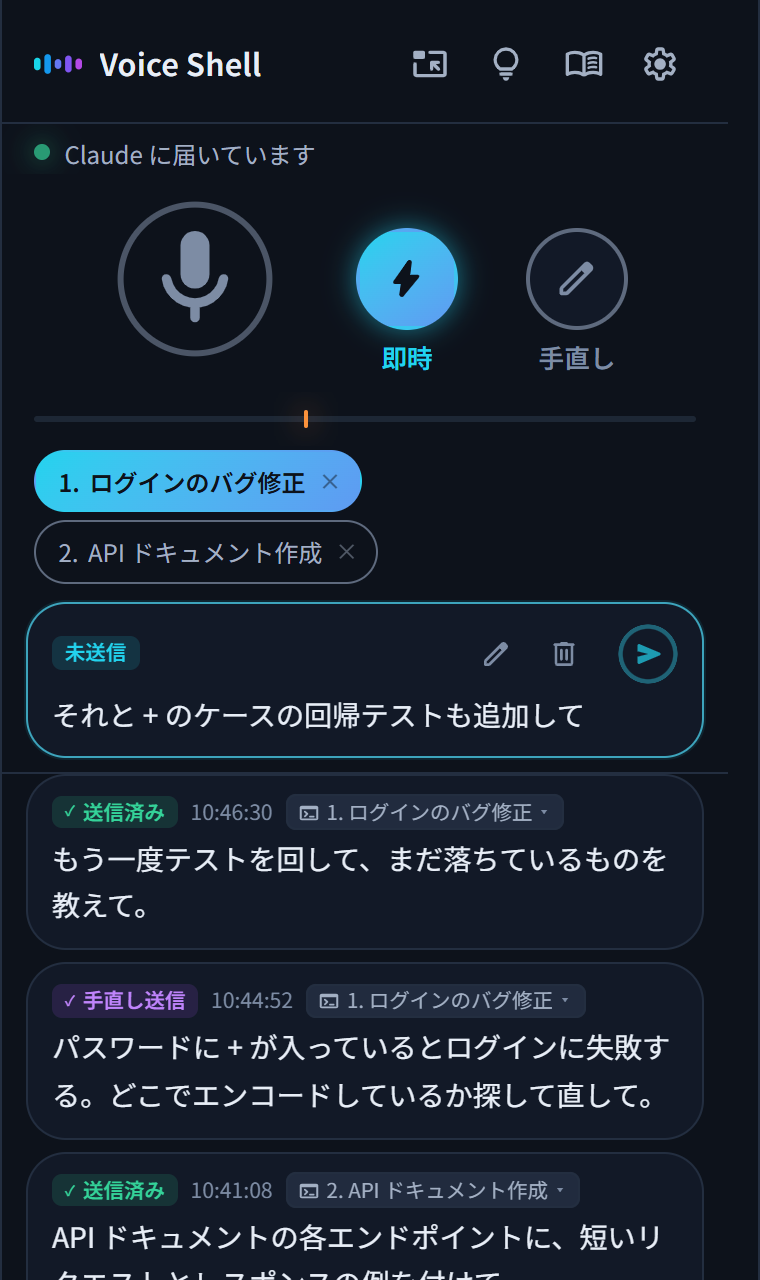
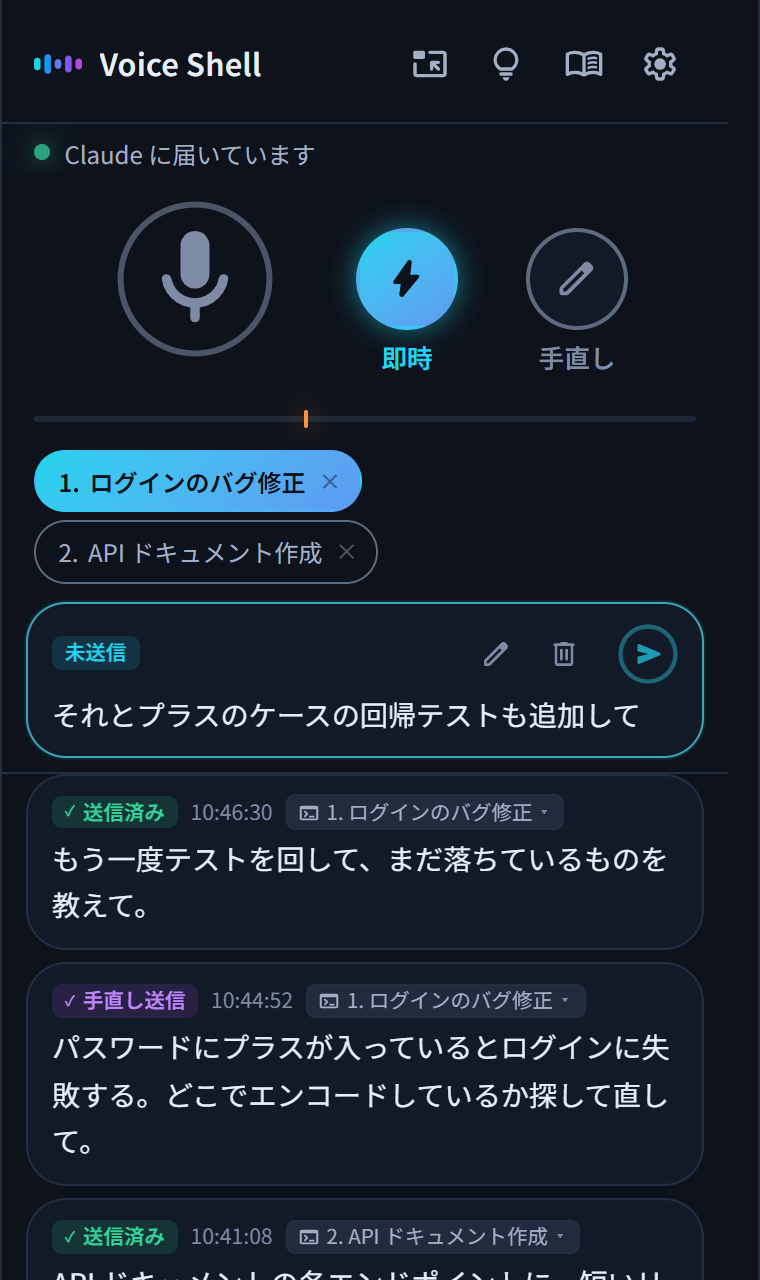
スクリーンショットの見本で、話し言葉では出ない「+」をプラスと書く
日本語と韓国語の見本に記号の「+」がそのまま入っていた。音声認識では
「プラス」「플러스」と出るので、その形にして撮り直した。

Claude-Session: https://claude.ai/code/session_01W4fFLV2YQJK2Z3xHN7fhKx

Changed region(s): [[0.0303, 0.8125, 0.8776, 1.0], [0.1816, 0.5312, 0.7868, 0.5938], [0.8171, 0.5312, 0.8474, 0.5625]]

diff --git a/docs/readme/tools/make_screenshots.py b/docs/readme/tools/make_screenshots.py
@@ -76,10 +76,10 @@ SAMPLES = {
         "chips": ["ログインのバグ修正", "API ドキュメント作成"],
         "sent": [
             ("10:41:08", 1, False, "API ドキュメントの各エンドポイントに、短いリクエストとレスポンスの例を付けて。"),
-            ("10:44:52", 0, True, "パスワードに + が入っているとログインに失敗する。どこでエンコードしているか探して直して。"),
+            ("10:44:52", 0, True, "パスワードにプラスが入っているとログインに失敗する。どこでエンコードしているか探して直して。"),
             ("10:46:30", 0, False, "もう一度テストを回して、まだ落ちているものを教えて。"),
         ],
-        "partial": "それと + のケースの回帰テストも追加して",
+        "partial": "それとプラスのケースの回帰テストも追加して",
         "draft": ["エラーメッセージを分かりやすくして。", "CHANGELOG にも一行足しておいて。"],
         "draft_partial": "あとリンターも回して",
     },
@@ -131,10 +131,10 @@ SAMPLES = {
         "chips": ["로그인 버그 수정", "API 문서 작성"],
         "sent": [
             ("10:41:08", 1, False, "API 문서의 모든 엔드포인트에 짧은 요청과 응답 예시를 추가해 줘."),
-            ("10:44:52", 0, True, "비밀번호에 + 기호가 있으면 로그인이 실패해. 인코딩하는 곳을 찾아서 고쳐 줘."),
+            ("10:44:52", 0, True, "비밀번호에 플러스 기호가 있으면 로그인이 실패해. 인코딩하는 곳을 찾아서 고쳐 줘."),
             ("10:46:30", 0, False, "테스트를 다시 돌리고 아직 실패하는 게 뭔지 알려 줘."),
         ],
-        "partial": "그리고 + 기호 경우에 대한 회귀 테스트도 추가해 줘",
+        "partial": "그리고 플러스 기호 경우에 대한 회귀 테스트도 추가해 줘",
         "draft": ["오류 메시지를 더 알기 쉽게 고쳐 줘.", "CHANGELOG에도 한 줄 추가해 줘."],
         "draft_partial": "린터도 돌려 줘",
     },
